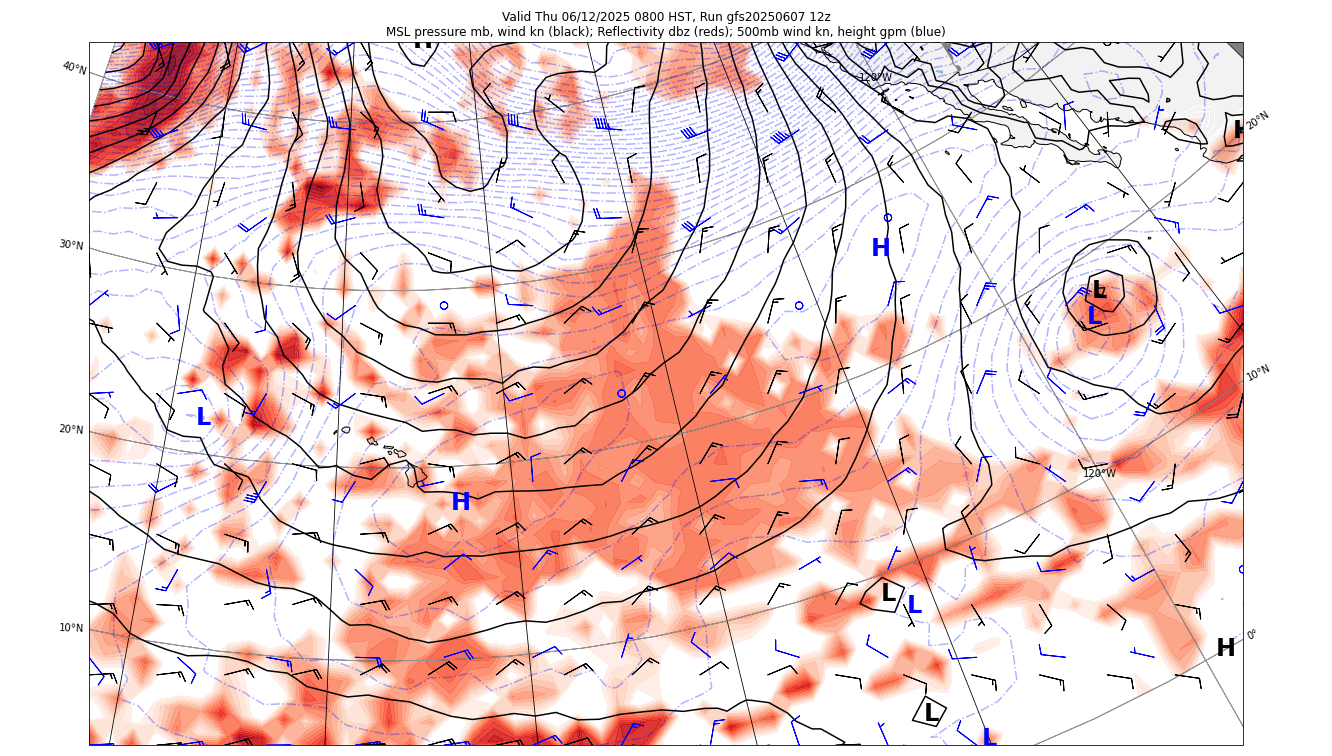
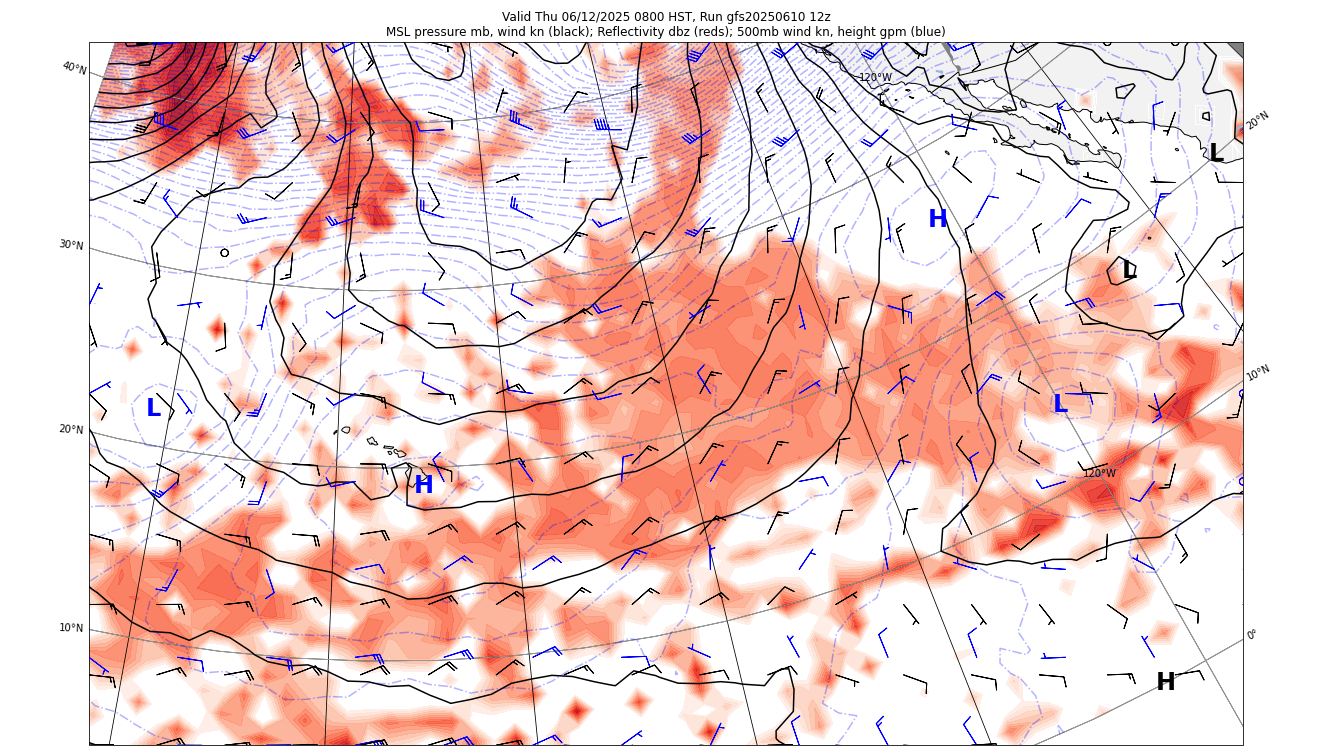
tw

diff --git a/index.html b/index.html
@@ -21,12 +21,9 @@
 </head>
 <body>
     <div class="imgbox">
-        <h1 style="text-align:center">GFS gfs20250607 12z</h1>
+        <h1 style="text-align:center">GFS gfs20250610 12z</h1>
         <br><img class="center-fit" src="storms.png" alt="Active Cyclones">
         <br><img class="center-fit" src="https://cdn.star.nesdis.noaa.gov/GOES18/GLM/SECTOR/tpw/EXTENT3/GOES18-TPW-EXTENT3-900x540.gif">
-        <br><img class="center-fit" src="202506070800.png" alt="202506070800.png">
-        <br><img class="center-fit" src="202506080800.png" alt="202506080800.png">
-        <br><img class="center-fit" src="202506090800.png" alt="202506090800.png">
         <br><img class="center-fit" src="202506100800.png" alt="202506100800.png">
         <br><img class="center-fit" src="202506110800.png" alt="202506110800.png">
         <br><img class="center-fit" src="202506120800.png" alt="202506120800.png">
@@ -40,6 +37,9 @@
         <br><img class="center-fit" src="202506200800.png" alt="202506200800.png">
         <br><img class="center-fit" src="202506210800.png" alt="202506210800.png">
         <br><img class="center-fit" src="202506220800.png" alt="202506220800.png">
+        <br><img class="center-fit" src="202506230800.png" alt="202506230800.png">
+        <br><img class="center-fit" src="202506240800.png" alt="202506240800.png">
+        <br><img class="center-fit" src="202506250800.png" alt="202506250800.png">
 		<br><img class="center-fit" src="https://www.weather.gov/images/hfo/graphics/npac.gif">
     </div>
 </body>
